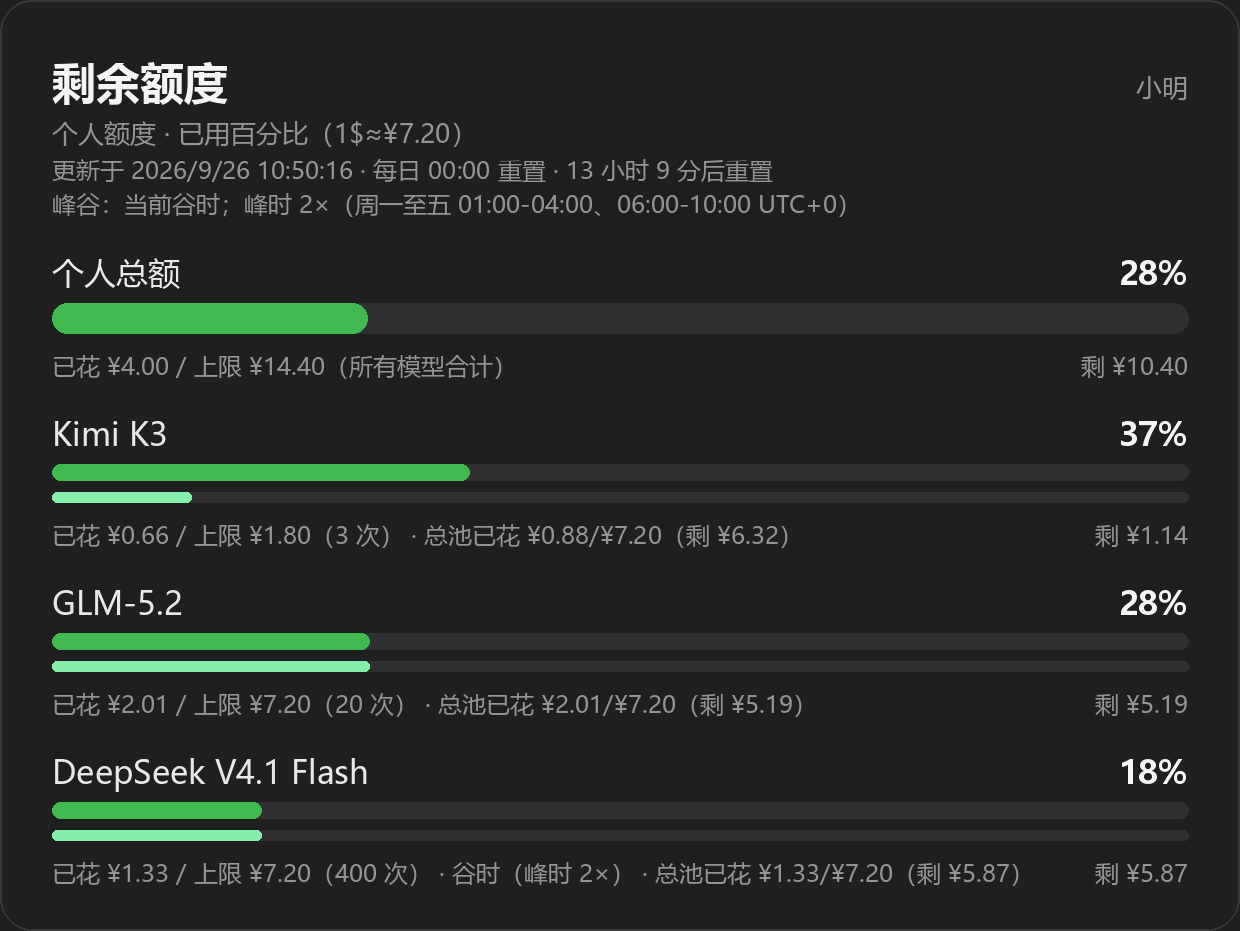
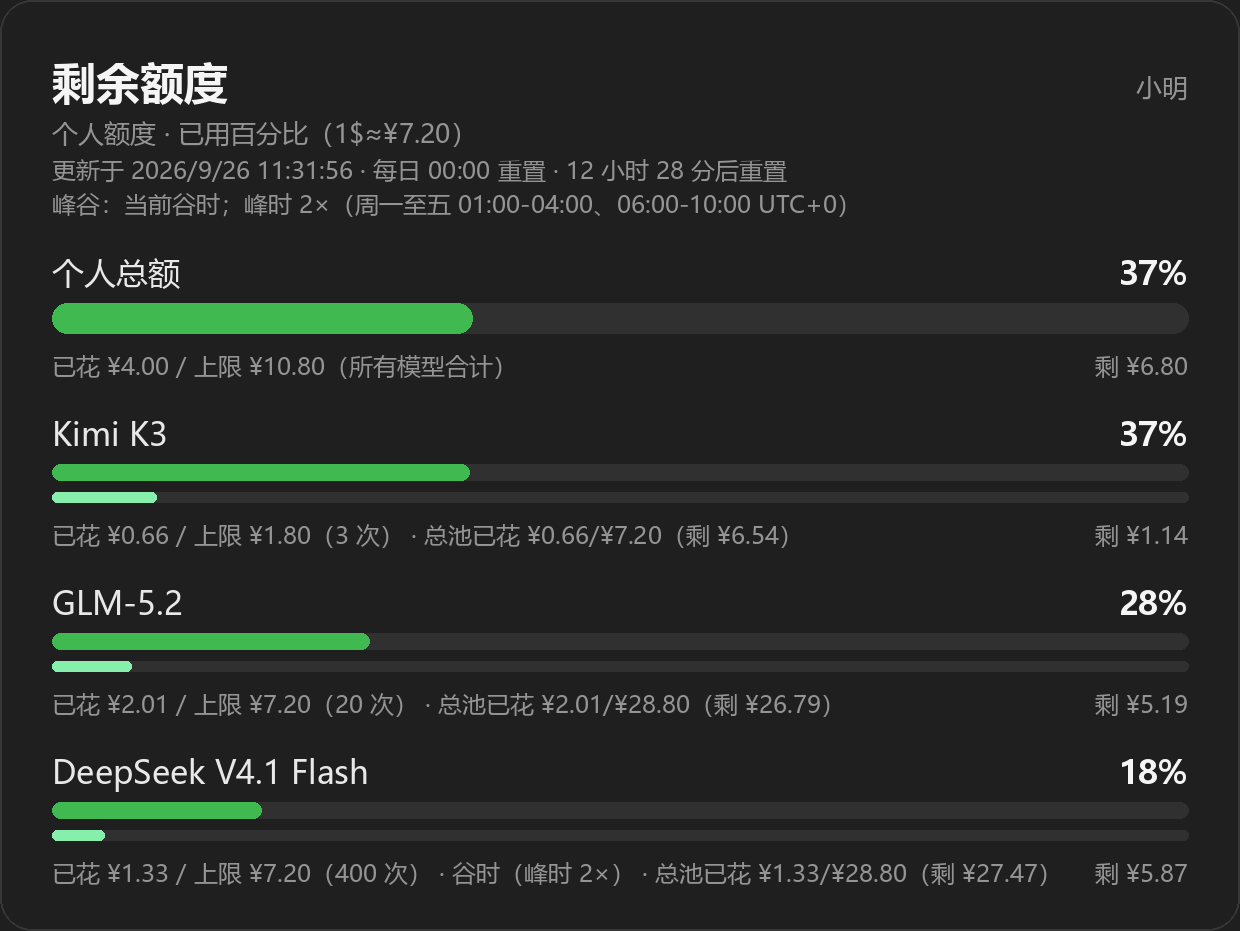
feat: 每人每日总额度收紧到 $1.5（含示例图与文档）

diff --git a/main.py b/main.py
@@ -151,7 +151,7 @@ _QUOTA_PRESET_DEFAULT_GLOBAL = 1.0
 _QUOTA_POOL_DIVISOR = 15.0
 """总池换算：官方月额度 ÷ 15，即 $15→$1、$30→$2、$60→$4。"""
 
-_QUOTA_PRESET_DEFAULT_TOTAL = 2.0
+_QUOTA_PRESET_DEFAULT_TOTAL = 1.5
 """限额预设下每人每天消费总额度（美元）。"""
 
 
@@ -281,7 +281,8 @@ class ModelQuotaPlugin(Star):
             cfg.get("model_user_quotas_usd", {})
         )
         self.default_user_total_quota: float = self._to_float(
-            cfg.get("default_user_total_quota_usd", 2.0), 2.0
+            cfg.get("default_user_total_quota_usd", _QUOTA_PRESET_DEFAULT_TOTAL),
+            _QUOTA_PRESET_DEFAULT_TOTAL,
         )
         self.default_global_quota: float = self._to_float(
             cfg.get("default_global_quota_usd", _QUOTA_PRESET_DEFAULT_GLOBAL),

diff --git a/README.md b/README.md
@@ -65,11 +65,11 @@ MiniMax、MiMo、Hy、LongCat、Muse Spark、Space Bunny Free 等全部在售模
 
 - **每 bot 每模型总池**：按官方月额度 ÷15 分档 —— **$15→$1、$30→$2、$60→$4**
   （同一个 bot 上所有非管理员用户共享）；
-- **每人每天消费总额 $2**（`default_user_total_quota_usd`）：跨模型、跨 bot 汇总。
+- **每人每天消费总额 $1.5**（`default_user_total_quota_usd`）：跨模型、跨 bot 汇总。
 
 > ⚠ **总池按 bot 分开**：一个 bot 一个独立总池，多个 bot 之间不合并。
 > 你有 7 个 bot，就是 7 个互不影响的池子，各自 $1/模型/天。
-> 个人限额则跨 bot 合并（换 bot 不会重置你的 $2 总额度），避免来回切 bot 刷额度。
+> 个人限额则跨 bot 合并（换 bot 不会重置你的 $1.5 总额度），避免来回切 bot 刷额度。
 
 想手改就填 `model_user_quotas_usd` / `model_global_quotas_usd`（优先级高于预设），
 或者把 `quota_preset` 设为 `off` 完全自己填。
@@ -111,10 +111,10 @@ MiniMax、MiMo、Hy、LongCat、Muse Spark、Space Bunny Free 等全部在售模
 
 ```text
 📊 我今日剩余额度（1$≈¥7.20）：
-- Kimi K3 ███ 37% 已花 ¥0.66/¥1.80（3 次）剩 ¥1.14 · 总池已花 ¥0.88/¥7.20（剩 ¥6.32）
-- GLM-5.2 ██ 28% 已花 ¥2.01/¥7.20（20 次）剩 ¥5.19 · 总池已花 ¥2.01/¥7.20（剩 ¥5.19）
-- DeepSeek V4.1 Flash ██ 18% 已花 ¥1.33/¥7.20（400 次）剩 ¥5.87 · 谷时（峰时 2×）
-💰 个人总额 ███ 28% 已花 ¥4.00/¥14.40 剩 ¥10.40
+- Kimi K3 ███ 37% 已花 ¥0.66/¥1.80（3 次）剩 ¥1.14 · 总池已花 ¥0.66/¥7.20（剩 ¥6.54）
+- GLM-5.2 ██ 28% 已花 ¥2.01/¥7.20（20 次）剩 ¥5.19 · 总池已花 ¥2.01/¥28.80（剩 ¥26.79）
+- DeepSeek V4.1 Flash ██ 18% 已花 ¥1.33/¥7.20（400 次）剩 ¥5.87 · 谷时（峰时 2×）· 总池已花 ¥1.33/¥28.80
+💰 个人总额 ████ 37% 已花 ¥4.00/¥10.80 剩 ¥6.80
 ⏰ 每日 00:00 重置（13 小时后重置，明天 00:00）
 🕐 当前谷时；峰时 2×（周一至五 01:00-04:00、06:00-10:00 UTC+0）
 ```
@@ -192,7 +192,7 @@ MiniMax、MiMo、Hy、LongCat、Muse Spark、Space Bunny Free 等全部在售模
 | `quota_preset` | opencode_go | 内置限额预设：按官方月额度 ÷ 60 得出每人每日额度（$60→$1、$30→$0.5、$15→$0.25）；`off` 只用手填 |
 | `default_user_model_quota_usd` | 1.0 | 未命中预设且未单独配置时的每人每天每模型默认限额 |
 | `model_user_quotas_usd` | `{}` | 按模型覆盖个人限额，例 `{"vip": 5.0}` |
-| `default_user_total_quota_usd` | 2.0 | **每人每天全部模型消费总额度**（跨 bot 汇总） |
+| `default_user_total_quota_usd` | 1.5 | **每人每天全部模型消费总额度**（跨 bot 汇总） |
 | `default_global_quota_usd` | 1.0 | 总池兜底值（预设下按档位换算 $15→$1/$30→$2/$60→$4）；各 bot 独立；0=不限 |
 | `model_global_quotas_usd` | `{}` | 按模型覆盖总池（单 bot），例 `{"vip": 100.0}` |
 | `usd_to_cny_rate` | 7.2 | 汇率，只影响展示 |
